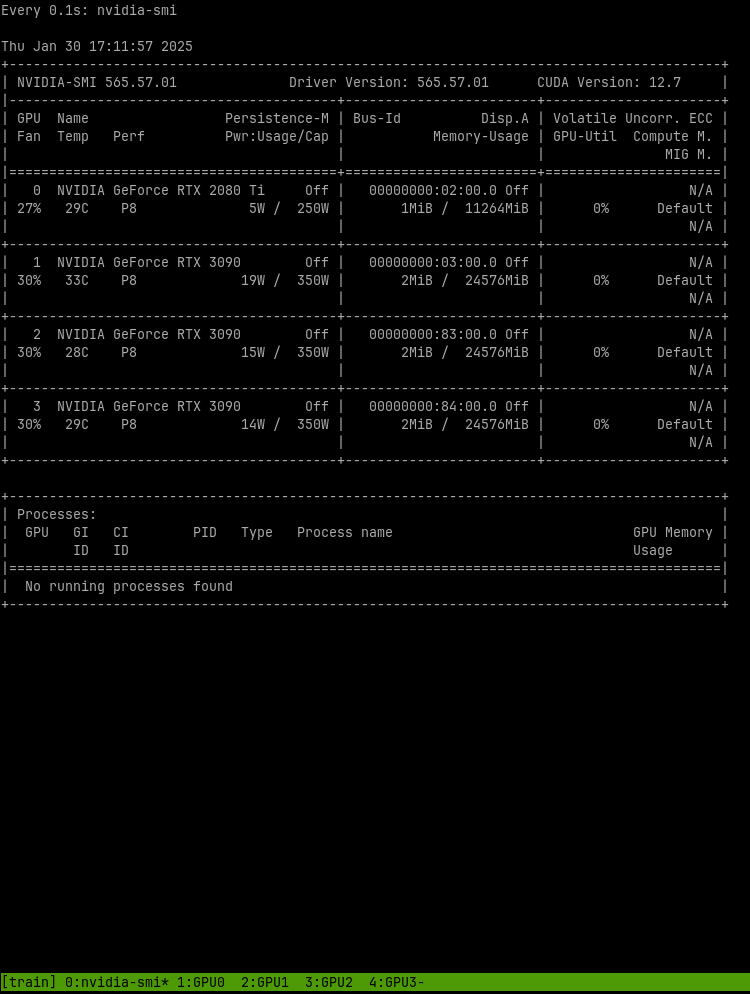
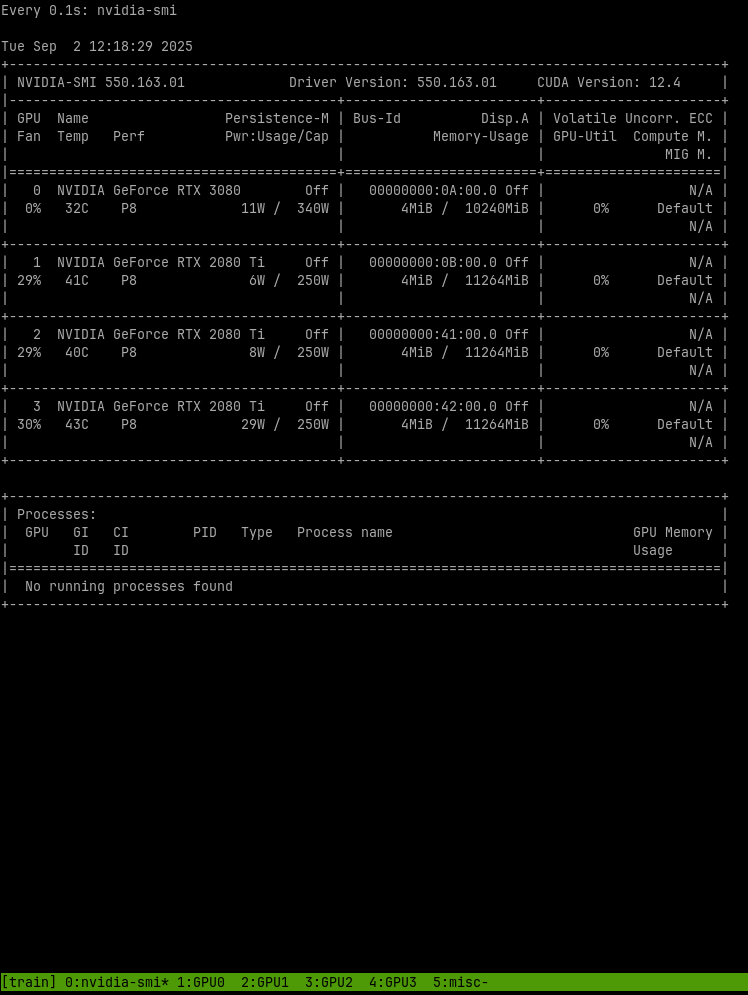
Adding a new misc window at the end

diff --git a/README.md b/README.md
@@ -4,6 +4,7 @@ A simple script to create a tmux session with multiple windows for development w
 It create a tmux session with the following windows:
 1. A window with `nvidia-smi` running continuously, to monitor the GPU usage.
 2. A window for each GPU detected, with the `CUDA_VISIBLE_DEVICES` environment variable set to the GPU index.
+3. A miscellaneous window.
 
 ![Example](docs/example.png)
 
